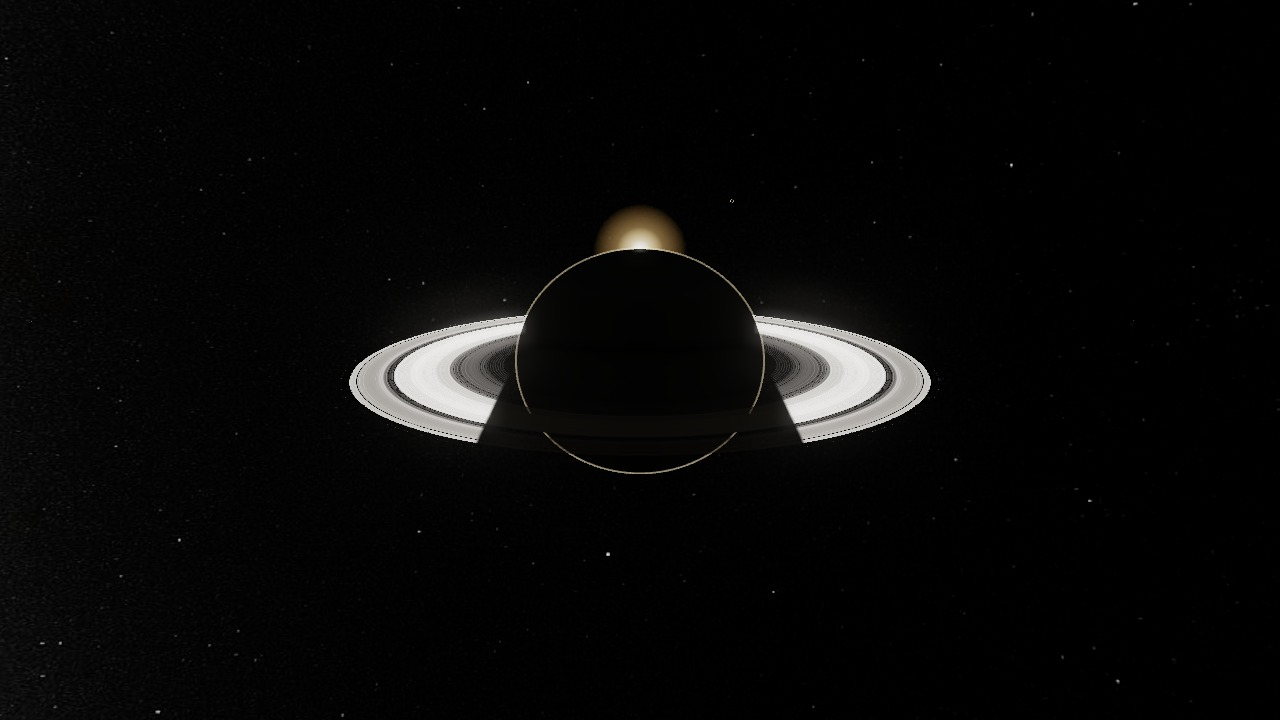
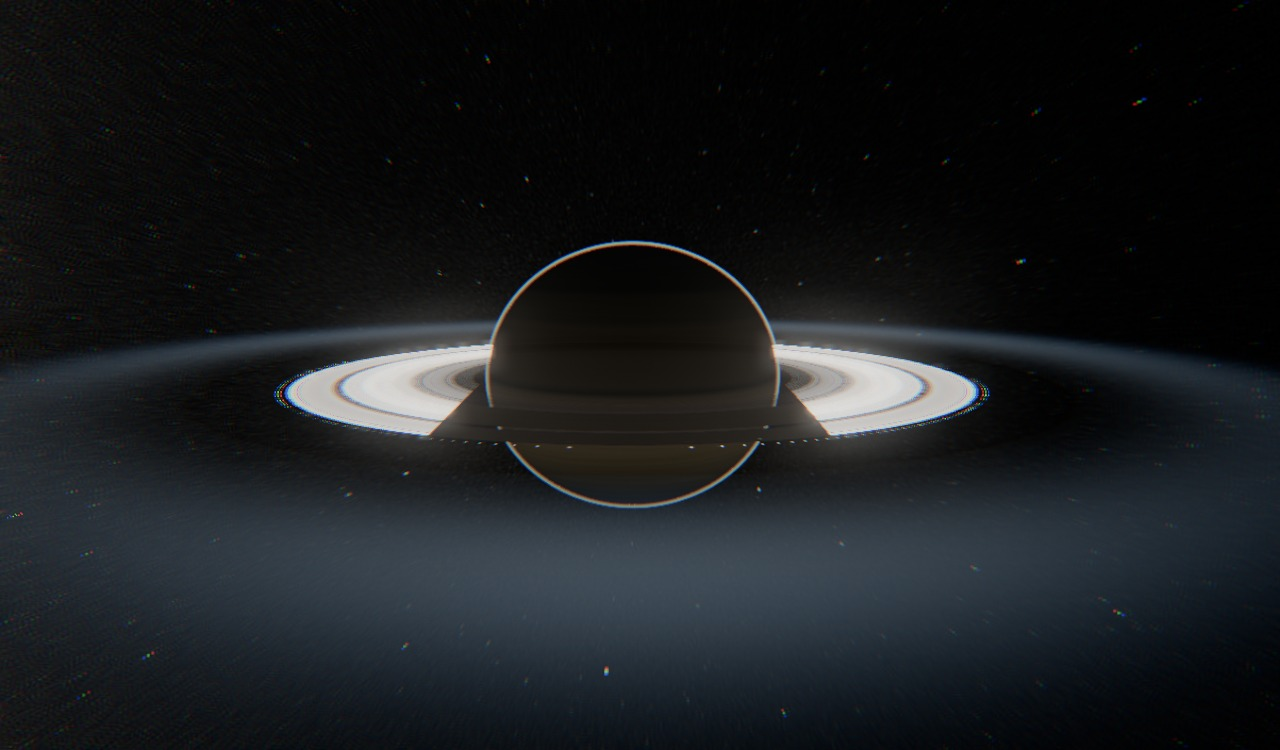
F6: fix 12 review-confirmed defects across F1-F5
- Ringshine LUT latitude was N/S flipped (three spheres have uv.y=0 at the
  SOUTH pole); ringshine now also scales with the ring opening angle
- F-ring across-strand profile was dead (fragment positionLocal reads the
  positionNode override; now uv-based)
- Plume physics: launch speeds were ~all hyperbolic (no arcs) — retuned
  below escape speed with a real ballistic spread; staggered spawn ramp now
  actually staggers; forward-scatter used mismatched frames (world camera
  vs local particles) — both transformed into the moon frame
- DOF: moved before additive lens effects (streaks/ghosts must not be
  depth-blurred); aperture is exactly 0 beyond fly-by range (the node's
  linear CoC otherwise blurs the far field/stars at any aperture)
- Cinema exit restores pre-cinema drift state (HUD checkbox stays truthful)
- setQuality no longer reloads when localStorage persistence failed
- bake: polar hole-fill deadlock fixed (nearest-row propagation replaces
  fake polar cliffs on Mimas/Tethys); TIFF reader now rejects
  compressed/non-float inputs instead of decoding garbage

diff --git a/src/effects/plumes.ts b/src/effects/plumes.ts
@@ -18,8 +18,8 @@ import { SpriteNodeMaterial } from 'three/webgpu';
 import type { ComputeNode } from 'three/webgpu';
 import {
   Fn, If, cameraPosition, clamp, cos, dot, exp, float, hash, instanceIndex,
-  instancedArray, max, mix, normalize, pow, sin, smoothstep,
-  uniform, uv, vec3,
+  instancedArray, max, mix, modelWorldMatrixInverse, normalize, pow, sin,
+  smoothstep, uniform, uv, vec3, vec4,
 } from 'three/tsl';
 import { sunDirUniform } from '../materials/sharedUniforms.ts';
 
@@ -55,14 +55,23 @@ export function createEnceladusPlumes(count = 262144): PlumeSystem {
     const vel = velBuf.element(instanceIndex).toVar();
     const life = lifeBuf.element(instanceIndex).toVar();
 
-    life.subAssign(dtUniform);
-    pos.addAssign(vel.mul(dtUniform));
-    // Inverse-square local gravity toward the moon's center.
-    const r = max(pos.length(), 0.35);
-    vel.subAssign(normalize(pos).mul(float(GRAVITY).div(r.mul(r))).mul(dtUniform));
+    // Negative life = staggered pre-spawn countdown; positive = airborne.
+    const wasAlive = life.greaterThan(0.0).toVar();
+    If(wasAlive, () => {
+      life.subAssign(dtUniform);
+      pos.addAssign(vel.mul(dtUniform));
+      // Inverse-square local gravity toward the moon's center.
+      const r = max(pos.length(), 0.35);
+      vel.subAssign(normalize(pos).mul(float(GRAVITY).div(r.mul(r))).mul(dtUniform));
+    }).Else(() => {
+      life.addAssign(dtUniform);
+    });
 
-    // Recycle: expired, re-impacted, or escaped far.
-    If(life.lessThan(0.0).or(pos.length().lessThan(0.995)).or(pos.length().greaterThan(6.0)), () => {
+    // (Re)spawn: countdown finished, flight expired, re-impacted, or escaped.
+    const born = wasAlive.not().and(life.greaterThanEqual(0.0));
+    const expired = wasAlive.and(life.lessThanEqual(0.0));
+    If(born.or(expired)
+      .or(pos.length().lessThan(0.995)).or(pos.length().greaterThan(6.0)), () => {
       // Vent on one of 8 tiger-stripe jets, derived from the particle index.
       const jet = i.mod(8);
       const hj = hash(i.add(0.17));
@@ -80,7 +89,9 @@ export function createEnceladusPlumes(count = 262144): PlumeSystem {
         h2.sub(0.5).mul(0.45),
       )));
       pos.assign(origin.mul(1.002));
-      vel.assign(dir.mul(h3.mul(0.45).add(0.55)));
+      // 0.32..0.58 vs escape speed sqrt(2*GRAVITY) ≈ 0.566: most grains arc
+      // back ballistically, the fastest few escape — those feed the E ring.
+      vel.assign(dir.mul(h3.mul(0.26).add(0.32)));
       life.assign(h1.mul(5.0).add(5.0));
     });
 
@@ -108,9 +119,13 @@ export function createEnceladusPlumes(count = 262144): PlumeSystem {
 
   const alt = pos.length().sub(1.0);
   const disc = smoothstep(0.5, 0.06, uv().sub(0.5).length());
-  // Forward scattering: icy grains glow against the light.
-  const V = normalize(cameraPosition.sub(pos)); // local ≈ world dir at these scales
-  const fwd = pow(clamp(dot(V, sunDirUniform).negate(), 0, 1), 3).mul(2.4).add(0.18);
+  // Forward scattering: icy grains glow against the light. Both vectors in
+  // the moon's LOCAL frame (particle positions are local; the camera and
+  // sun direction must be transformed in).
+  const camLocal = modelWorldMatrixInverse.mul(vec4(cameraPosition, 1)).xyz;
+  const sunLocal = normalize(modelWorldMatrixInverse.mul(vec4(sunDirUniform, 0)).xyz);
+  const V = normalize(camLocal.sub(pos));
+  const fwd = pow(clamp(dot(V, sunLocal).negate(), 0, 1), 3).mul(2.4).add(0.18);
 
   const visible = smoothstep(0.0, 0.15, life); // hidden while life < 0
   material.opacityNode = disc

diff --git a/src/main.ts b/src/main.ts
@@ -83,6 +83,7 @@ async function boot(): Promise<void> {
     active: false,
     timer: 0,
     stop: 0,
+    wasDrifting: false,
     stops: ['saturn', 'enceladus', 'titan', 'mimas', 'iapetus', 'saturn'],
     exitEl: (() => {
       const el = document.createElement('div');
@@ -95,6 +96,7 @@ async function boot(): Promise<void> {
       this.active = true;
       this.timer = 0;
       this.stop = 0;
+      this.wasDrifting = controls.controls.autoRotate;
       document.body.classList.add('cinema');
       controls.controls.autoRotate = true;
       controls.controls.autoRotateSpeed = 0.25;
@@ -104,7 +106,9 @@ async function boot(): Promise<void> {
       if (!this.active) return;
       this.active = false;
       document.body.classList.remove('cinema');
-      controls.controls.autoRotate = false;
+      // Restore the pre-cinema drift state so the HUD checkbox stays truthful.
+      controls.controls.autoRotate = this.wasDrifting;
+      controls.controls.autoRotateSpeed = 0.12;
     },
     update(dt: number) {
       if (!this.active) return;
@@ -148,10 +152,12 @@ async function boot(): Promise<void> {
     if (quality.dof) {
       const focusDist = camera.position.distanceTo(controls.controls.target);
       engine.dofFocus.value = focusDist;
-      // Hyperfocal at planetary distances (1/f² falloff): wide framings stay
-      // pin-sharp; only close fly-bys (< ~10 units) get shallow focus.
+      // The DOF node's blur grows linearly with |distance - focus| up to
+      // maxblur, so ANY nonzero aperture eventually blurs the far field
+      // (stars). True hyperfocal: aperture is exactly 0 except on close
+      // fly-bys, where shallow focus is the cinematic point.
       const f = Math.max(focusDist, 2);
-      engine.dofAperture.value = Math.min(0.01, 0.05 / (f * f));
+      engine.dofAperture.value = f < 25 ? Math.min(0.01, 0.05 / (f * f)) : 0;
     }
 
     // Auto-tune: after ~4 s of real rendering, step down once if needed.

diff --git a/src/materials/fRing.ts b/src/materials/fRing.ts
@@ -13,7 +13,7 @@ import { AdditiveBlending, DoubleSide, Mesh, PlaneGeometry } from 'three';
 import { MeshBasicNodeMaterial } from 'three/webgpu';
 import {
   cameraPosition, clamp, cos, dot, float, mix, mx_noise_float, normalize,
-  oneMinus, positionLocal, positionWorld, pow, sin, uv, vec3,
+  oneMinus, positionWorld, pow, sin, uv, vec3,
 } from 'three/tsl';
 import { spokePhaseUniform, sunDirUniform } from './sharedUniforms.ts';
 import { KM_PER_UNIT } from '../data/saturn.ts';
@@ -46,7 +46,7 @@ export function createFRing(): Mesh[] {
     ).mul(0.10);
     const ecc = cos(theta.add(si * 2.1)).mul(0.04);
     const r = float(baseR).add(kink).add(ecc)
-      .add(positionLocal.y.mul(width * 8)); // v across the strand
+      .add(uv().y.sub(0.5).mul(width * 8)); // v across the strand
     const bent = vec3(r.mul(cos(theta)), 0.0, r.mul(sin(theta)).negate());
     material.positionNode = bent;
 
@@ -55,8 +55,10 @@ export function createFRing(): Mesh[] {
       vec3(cos(theta).mul(14).add(si * 3.1), sin(theta).mul(14), spokePhaseUniform.mul(0.3)),
       1.0,
     ).mul(0.5).add(0.5);
-    // Across-strand gaussian profile.
-    const across = pow(oneMinus(clamp(positionLocal.y.abs().mul(2), 0, 1)), 2);
+    // Across-strand gaussian profile — from uv, NOT positionLocal: with a
+    // positionNode override, fragment-stage positionLocal reads the bent
+    // position (whose y is literally 0), never the original attribute.
+    const across = pow(oneMinus(clamp(uv().y.sub(0.5).abs().mul(2), 0, 1)), 2);
 
     // Forward-scattering phase: bright backlit, dim frontlit.
     const V = normalize(cameraPosition.sub(positionWorld));

diff --git a/src/materials/saturnMaterial.ts b/src/materials/saturnMaterial.ts
@@ -24,7 +24,7 @@ type NodeObj = ShaderNodeObject<Node>;
 /** Procedural banding — the fallback when no real map is available. */
 function proceduralBands(bandUv: NodeObj): NodeObj {
   const u = bandUv.x;
-  const v = bandUv.y; // 0 at north pole, 1 at south pole (three.js spheres)
+  const v = bandUv.y; // three.js spheres: 0 at the SOUTH pole, 1 at the north
   const latAbs = abs(v.sub(0.5)).mul(2); // 0 equator .. 1 poles
 
   // Slight longitudinal wobble so band edges are not perfect circles.
@@ -146,7 +146,9 @@ export function createSaturnMaterial(
 
   // --- Ringshine: the rings light the night side (LUT by latitude) ---
   if (ringshineTex) {
-    const latU = oneMinus(uv().y); // LUT: u=0 south pole .. u=1 north pole
+    // LUT: u=0 south .. u=1 north; three's SphereGeometry has uv.y=0 at the
+    // SOUTH pole, so the coordinate maps straight through.
+    const latU = uv().y;
     const shine = texture(ringshineTex, vec2(latU, 0.5)).r;
     // Strongest where the sun doesn't reach; fades out on the day side.
     const night = oneMinus(clamp(positionWorld.normalize().dot(S).mul(2.5).add(0.5), 0, 1));

diff --git a/src/core/Engine.ts b/src/core/Engine.ts
@@ -49,6 +49,12 @@ export class Engine {
     const bloomPass = bloom(scenePass, 0.45, 0.35, 0.82);
     let comp: ShaderNodeObject<Node> = scenePass.add(bloomPass);
 
+    // Depth of field on scene+bloom only — lens-internal artifacts (streaks,
+    // ghosts) form after defocus and must not be depth-blurred.
+    if (quality.dof) {
+      comp = dof(comp, scenePass.getViewZNode(), this.dofFocus, this.dofAperture, float(0.008));
+    }
+
     // Physical lens system driven by the HDR sun disk, gated by how visible
     // the sun actually is (CPU occlusion test -> sunVisibilityUniform).
     if (quality.anamorphic) {
@@ -61,11 +67,6 @@ export class Engine {
         lensflare(bloomPass, { threshold: float(2.6), ghostSamples: float(3) })
           .mul(sunVisibilityUniform).mul(0.35),
       );
-    }
-
-    // Depth of field focused on the tracked body (uniforms fed per frame).
-    if (quality.dof) {
-      comp = dof(comp, scenePass.getViewZNode(), this.dofFocus, this.dofAperture, float(0.008));
     }
 
     // Cinematic finish: subtle chromatic fringing at the frame edges,

diff --git a/src/physics/ringshine.ts b/src/physics/ringshine.ts
@@ -109,9 +109,12 @@ export class Ringshine {
         sum += faceB * a.alpha * cosIncidence * emit * solid;
       }
 
+      // Ring opening angle: the rings intercept (and re-emit) sunlight in
+      // proportion to the sine of the solar elevation over the ring plane.
+      const opening = 0.15 + 0.85 * Math.min(1, Math.abs(sunDir.y) / 0.45);
       // Normalize to a pleasing 0..1 range (scale factor folds the ring
       // albedo and solar irradiance; calibrated against PIA08329).
-      const v = Math.min(1, sum * 0.55);
+      const v = Math.min(1, sum * 0.55 * opening);
       const b = Math.round(v * 255);
       this.data[li * 4] = b;
       this.data[li * 4 + 1] = b;

diff --git a/src/core/quality.ts b/src/core/quality.ts
@@ -67,7 +67,11 @@ export function setQuality(name: QualityName): void {
   try {
     localStorage.setItem(STORAGE_KEY, name);
     localStorage.setItem(TUNED_KEY, '1'); // manual choice disables auto-tuning
-  } catch { /* ignore */ }
+  } catch {
+    // Storage blocked: the preset can't persist, so reloading would just
+    // destroy the session for a no-op.
+    return;
+  }
   location.reload();
 }
 

diff --git a/README.md b/README.md
@@ -50,12 +50,31 @@ Append `?webgl` to the URL to force the WebGL2 backend.
   umbra go dark — lit only by *saturnshine* — and dim under ring shadows.
   Seasonally accurate: Titan shadow transits ceased after the 2025 equinox,
   while inner-moon transits still occur, exactly as in the simulation.
-- **B-ring spokes**: ghostly radial dust streaks corotating with the
-  magnetosphere — dark in backscatter, bright when backlit (a near-equinox
-  phenomenon, in season for the mid-2020s).
-- **Cinematic pipeline**: AgX tone mapping (calibrated against Cassini
-  natural color), scene-pass 4x MSAA, bloom, gentle vignette and fine film
-  grain; "Drift" toggle for a slow cinematic orbit.
+- **Ringshine**: Saturn's night side is lit by its rings — a per-frame
+  latitude LUT integrated from the real ring brightness profiles.
+- **Raymarched atmospheres**: single-scattering integral (TSL loops) for
+  Saturn's limb/terminator and Titan's haze — the orange limb and blue
+  upper fringe emerge from chromatic Mie + Rayleigh, not painted shells.
+- **Real moon topography**: Gaskell SPC shape models (Mimas, Tethys), the
+  Schenk & McKinnon 2024 global DEM (Enceladus) and the Weirich 2025 DTM
+  (Dione) baked to displacement + normal maps — real crater rims on the
+  limb. Rhea and Iapetus have no public DTM: their relief is procedural
+  (documented), including Iapetus' real ~13 km equatorial ridge as a
+  modeled feature. Surfaces shade with a Hapke-style BRDF
+  (Lommel-Seeliger × opposition surge) — the chalky full-phase look.
+- **GPU particles**: Enceladus' plumes are ballistic compute particles
+  (up to 1M on Ultra; transform-feedback fallback on WebGL2) feeding a
+  forward-scattering E ring; a volumetric particle slab fades in for ring
+  fly-throughs, with self-gravity wakes, azimuthal grain, a kinked clumpy
+  F ring and B-ring spokes on the main rings.
+- **Cinematic pipeline**: HDR sun (radiance ≫1) driving physical bloom,
+  anamorphic streak and lens ghosts gated by real sun occlusion; AgX tone
+  mapping (calibrated against Cassini natural color), DOF focused on the
+  tracked body (hyperfocal at planetary distances), subtle chromatic
+  aberration, vignette and film grain; Cinema mode with a timed tour.
+- **Quality presets**: Low / Med / High / Ultra (DPR, MSAA, raymarch steps,
+  particle counts, tessellation, lens effects) with a one-shot fps
+  auto-tuner.
 
 ## Controls
 
@@ -112,6 +131,11 @@ heliocentric anchors — the orbital module already supports any parent frame.
 - **Star map**: NASA/GSFC Scientific Visualization Studio "Deep Star Maps
   2020"; star data Gaia DR2 (ESA/Gaia/DPAC) — oriented to the real celestial
   sphere as seen from Saturn
+- **Moon topography**: Gaskell SPC shape models V2.0/V1.0 (Mimas, Tethys —
+  NASA PDS); Enceladus global DEM 200 m (Schenk & McKinnon 2024, USGS
+  Astropedia — cite Icarus 408, 115827); Dione SPC DTM (Weirich et al.
+  2025, PDS SBN). Baked by `scripts/bake-moon-relief.mjs`. Rhea and
+  Iapetus topography is **synthetic** (no public DTM exists as of 2026)
 - Color calibration reference: Cassini natural-color photographs
   (PIA21345, PIA06175)
 - Every texture is optional: if a file under `public/textures/` is missing,
